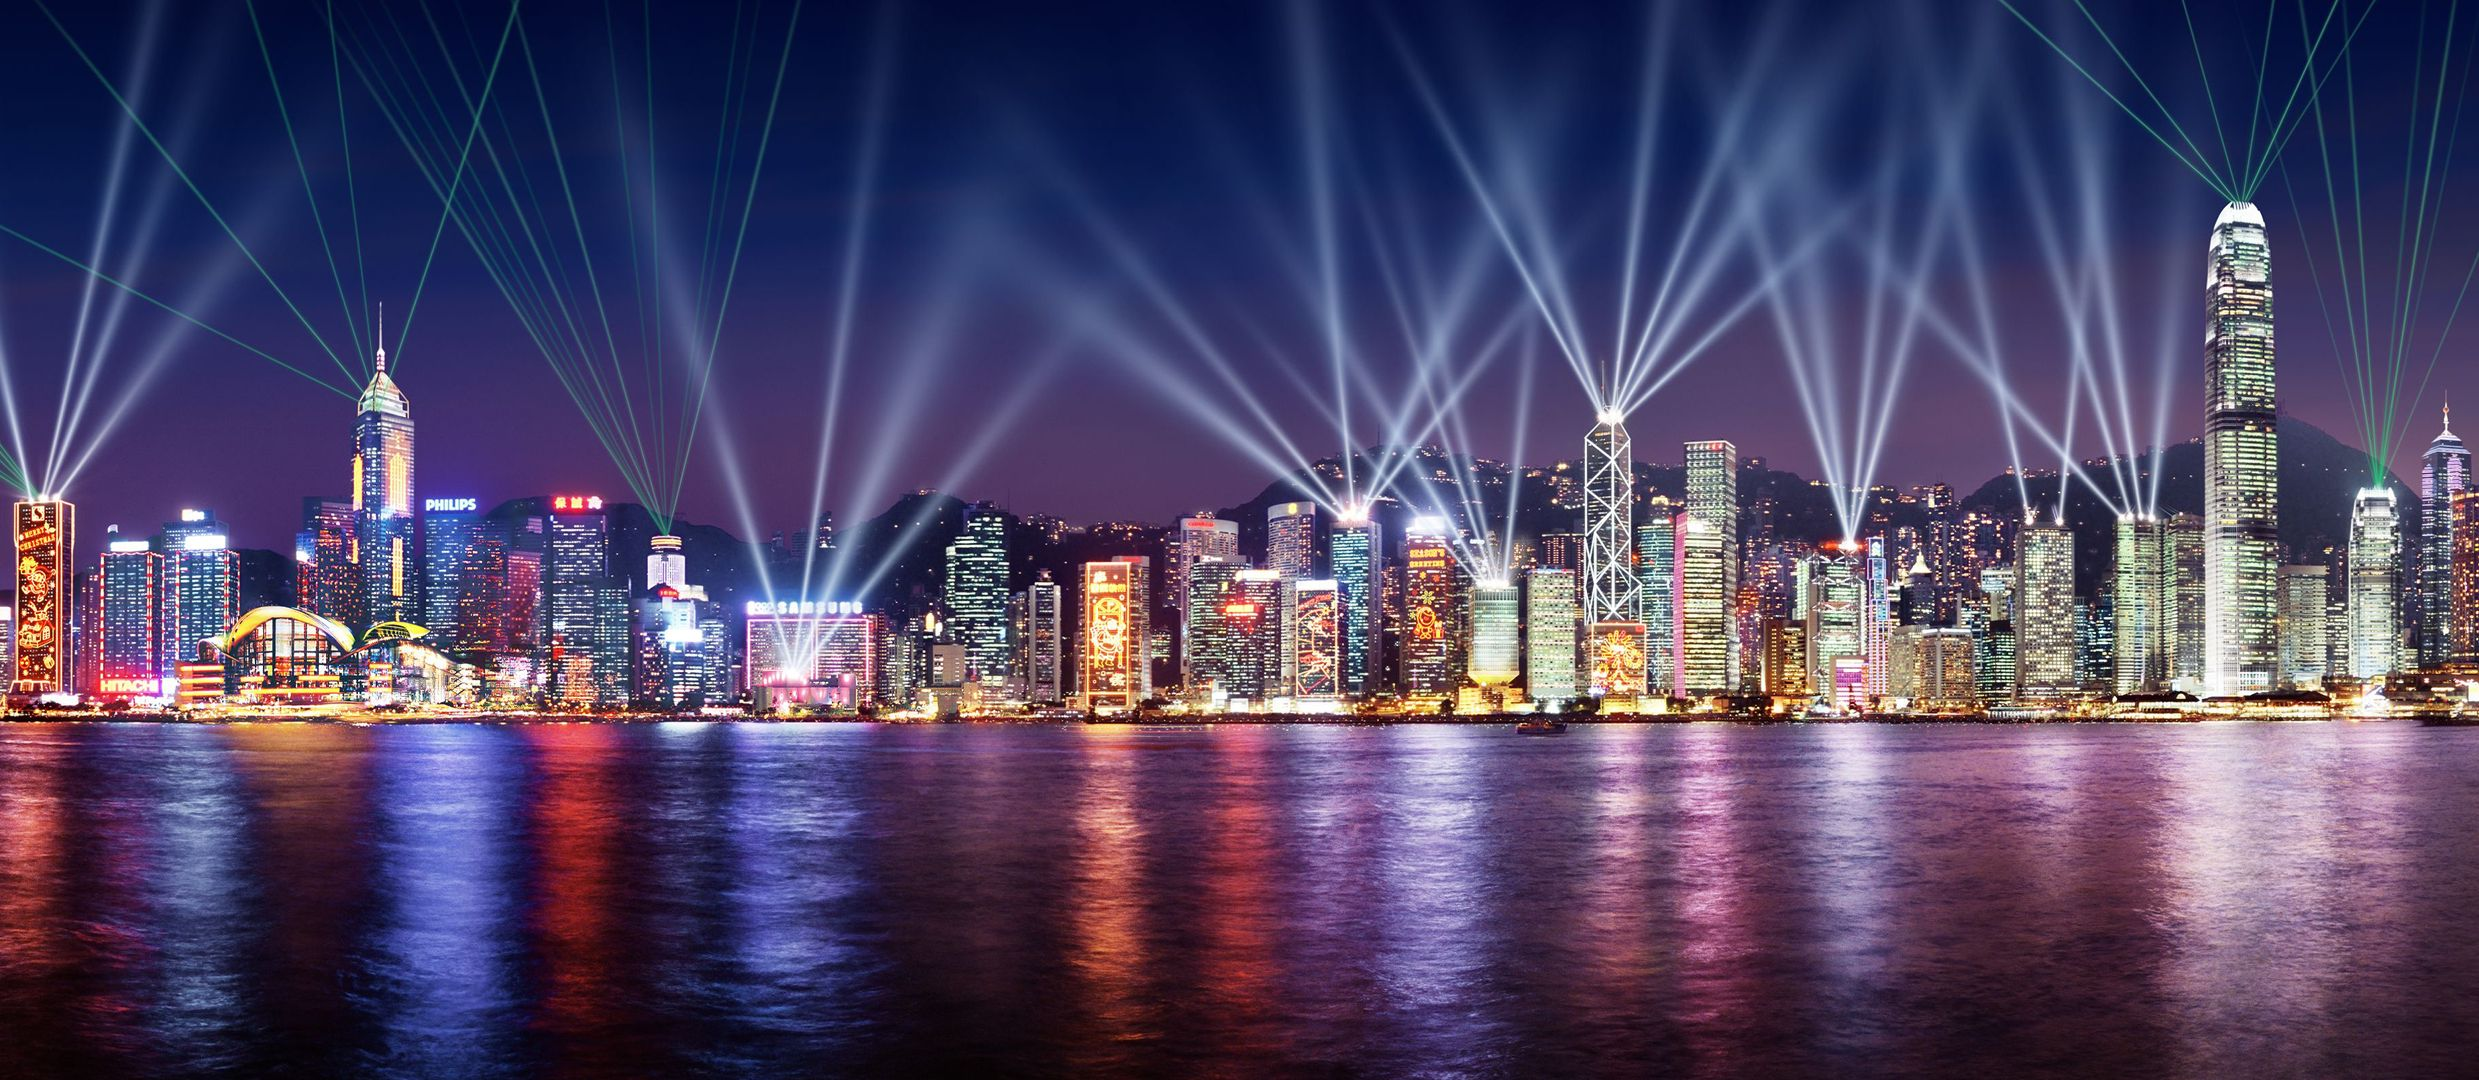
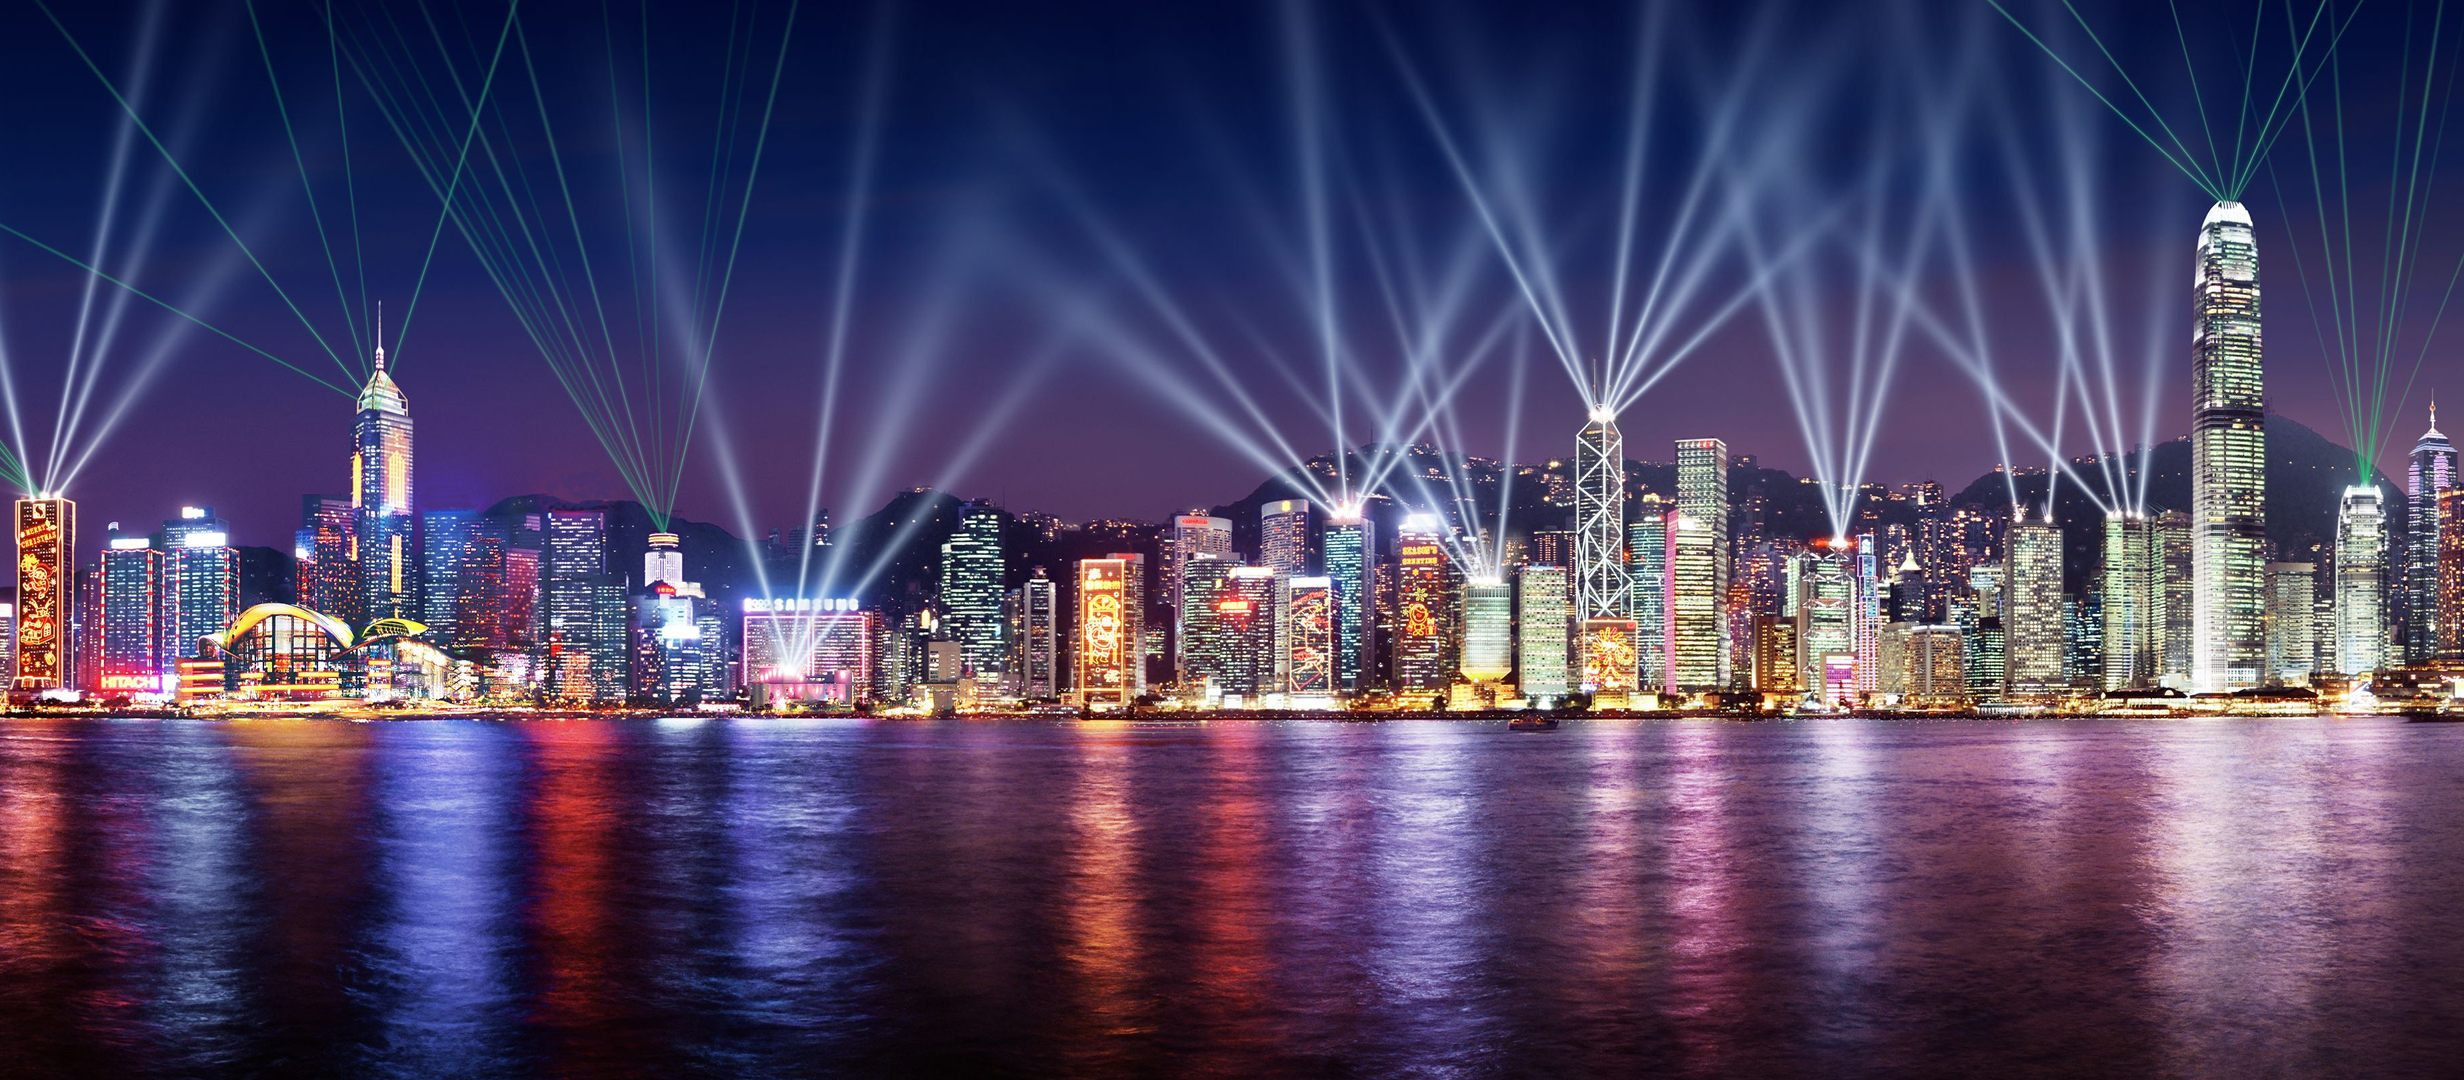
chore: 1. enable Google MAP API. 2. Remove some AD on pics.

Changed region(s): [[0.0, 0.0611, 1.0, 1.0], [0.125, 0.8556, 0.2188, 1.0], [0.2188, 0.3056, 0.25, 0.3361]]

diff --git a/gulpfile.js b/gulpfile.js
@@ -1,4 +1,4 @@
-var DEBUG_MODE = true;
+var DEBUG_MODE = false;
 
 var fs = require('fs');
 var path = require('path');
@@ -26,14 +26,11 @@ const DestDir = "./publish";
 
 
 
-
-
 gulp.task('just_for_test', function() {
     gulp.src(['dev/src_css/**/*.min.css'])
         .pipe(gDebug({ showFiles: true, title: 'test1:' }))
 
 })
-
 
 gulp.task('clean-html', function(done) {
     gutil.log("[clean]", del.sync([
@@ -78,7 +75,8 @@ gulp.task('compile_html', ['clean-debug'], function() {
             gHtmlMin({
                 collapseWhitespace: true,
                 conservativeCollapse: true,
-                removeComments: true
+                removeComments: true,
+                minifyJS: true
             })))
         .pipe(gDebug({ showFiles: true, title: '[HTML] Proccessed:' }))
         .pipe(gulp.dest(DestDir))

diff --git a/dev/travel.html b/dev/travel.html
@@ -391,7 +391,7 @@
         window.open(protocal + "://maps.google.com/maps?daddr=22.3028, 114.1786&amp;ll=");
     }
     </script>
-    <!-- <script async defer src="https://maps.googleapis.com/maps/api/js?key=AIzaSyAFsHWCKp0h5YZbDYOql16ZETPOCNDv2GU&callback=initggMap"></script> -->
+    <script async defer src="https://maps.googleapis.com/maps/api/js?key=AIzaSyAFsHWCKp0h5YZbDYOql16ZETPOCNDv2GU&callback=initggMap"></script>
 </body>
 
 </html>
